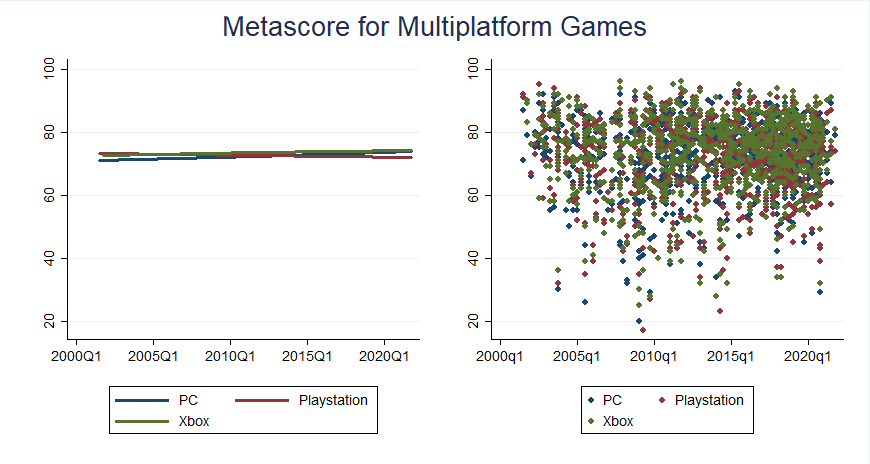
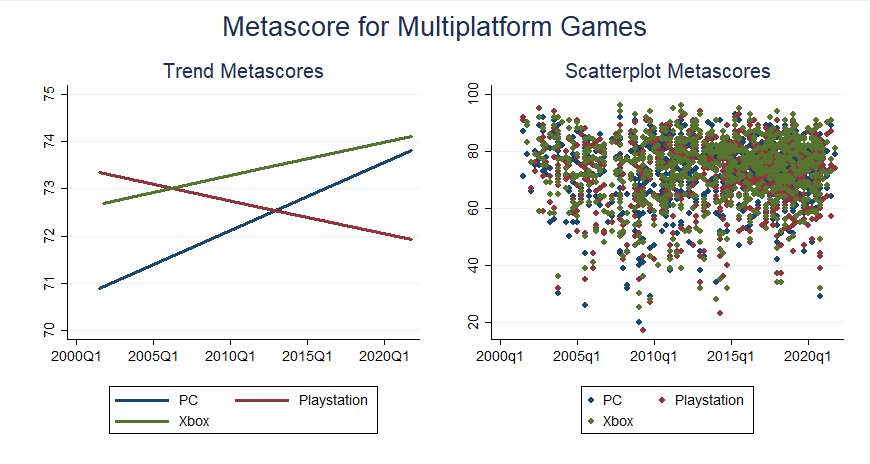
better picture

diff --git a/research/multiport.md b/research/multiport.md
@@ -14,7 +14,7 @@ Using Metascores and user scores from 2001 through 2021, both of which are allow
 ### Professional Reviews ###
 First note that among the multiplatform games in the sample, there is no statistically significant trend upward or downward in Metacritic score at 95 percent confidence for any platform, although there is a minor upward trend for the PC ports at 90 percent confidence.[^2]
 
-The figure below illustrates how subtle any platform difference is, on average, over the last 20 years: both the trend lines and scatterplots are nearly indistinguishable between platforms. MANOVA tests are consistent with the preceding intuition, being unable to differentiate between the three platforms based purely on Metascore or when also including quarterly or yearly times as predictors.[^3]
+The figure below illustrates how subtle any platform difference is, on average, over the last 20 years: trendlines are all concentrated within a fairly small band between about 71 to 74; and scatterplots are nearly indistinguishable across platforms. MANOVA tests are consistent with the preceding intuition, being unable to differentiate between the three platforms based purely on Metascore or when also including quarterly or yearly times as predictors.[^3]
 
 ![Metascore Ports](multiport_metascores.png)
 
@@ -34,7 +34,7 @@ Finally, comparing Playstation to Xbox over the entire 20 year window, one finds
 
 
 ### User Reviews ###
-All three platforms exhibit a statistically significant downward trend in user score for multiplatform games.[^7] However, the figure below again illustrates how subtle any platform difference is, on average, over the last 20 years: both the trend lines and scatterplots are difficult to distinguish visually between platforms (albeit there appears to be more distinction compared to Metascores). MANOVA tests are again consistent the preceding intuition in that they are unable to differentiate between platform based purely on user score or when also including quarterly or yearly times as predictors.[^8]
+All three platforms exhibit a statistically significant downward trend in user score for multiplatform games.[^7] However, the figure below again illustrates how subtle any platform difference is, on average, over the last 20 years: both trendlines and scatterplots are fairly similar visually across platforms (albeit there appears to be more distinction compared to Metascores). MANOVA tests are again consistent the preceding intuition in that they are unable to differentiate between platform based purely on user score or when also including quarterly or yearly times as predictors.[^8]
 
 ![User Score Ports](multiport_userscores.png)
 
